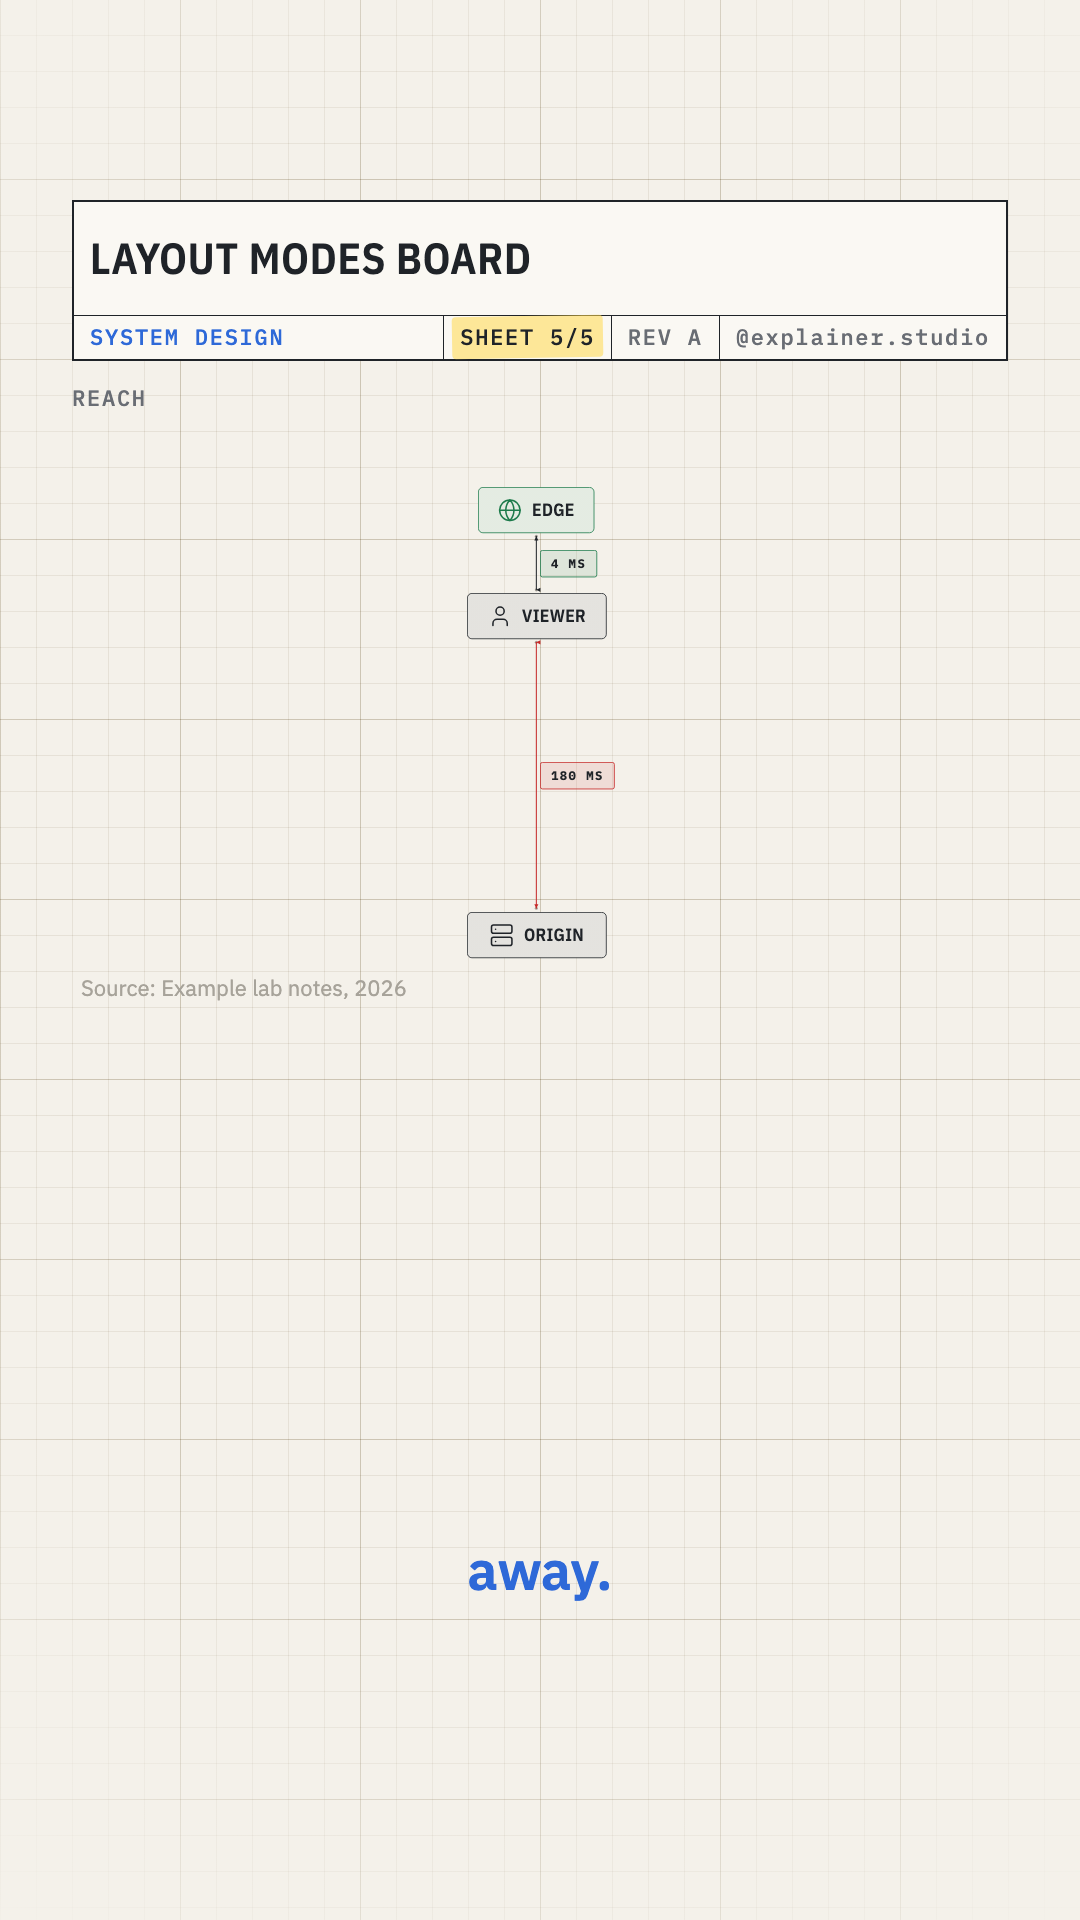
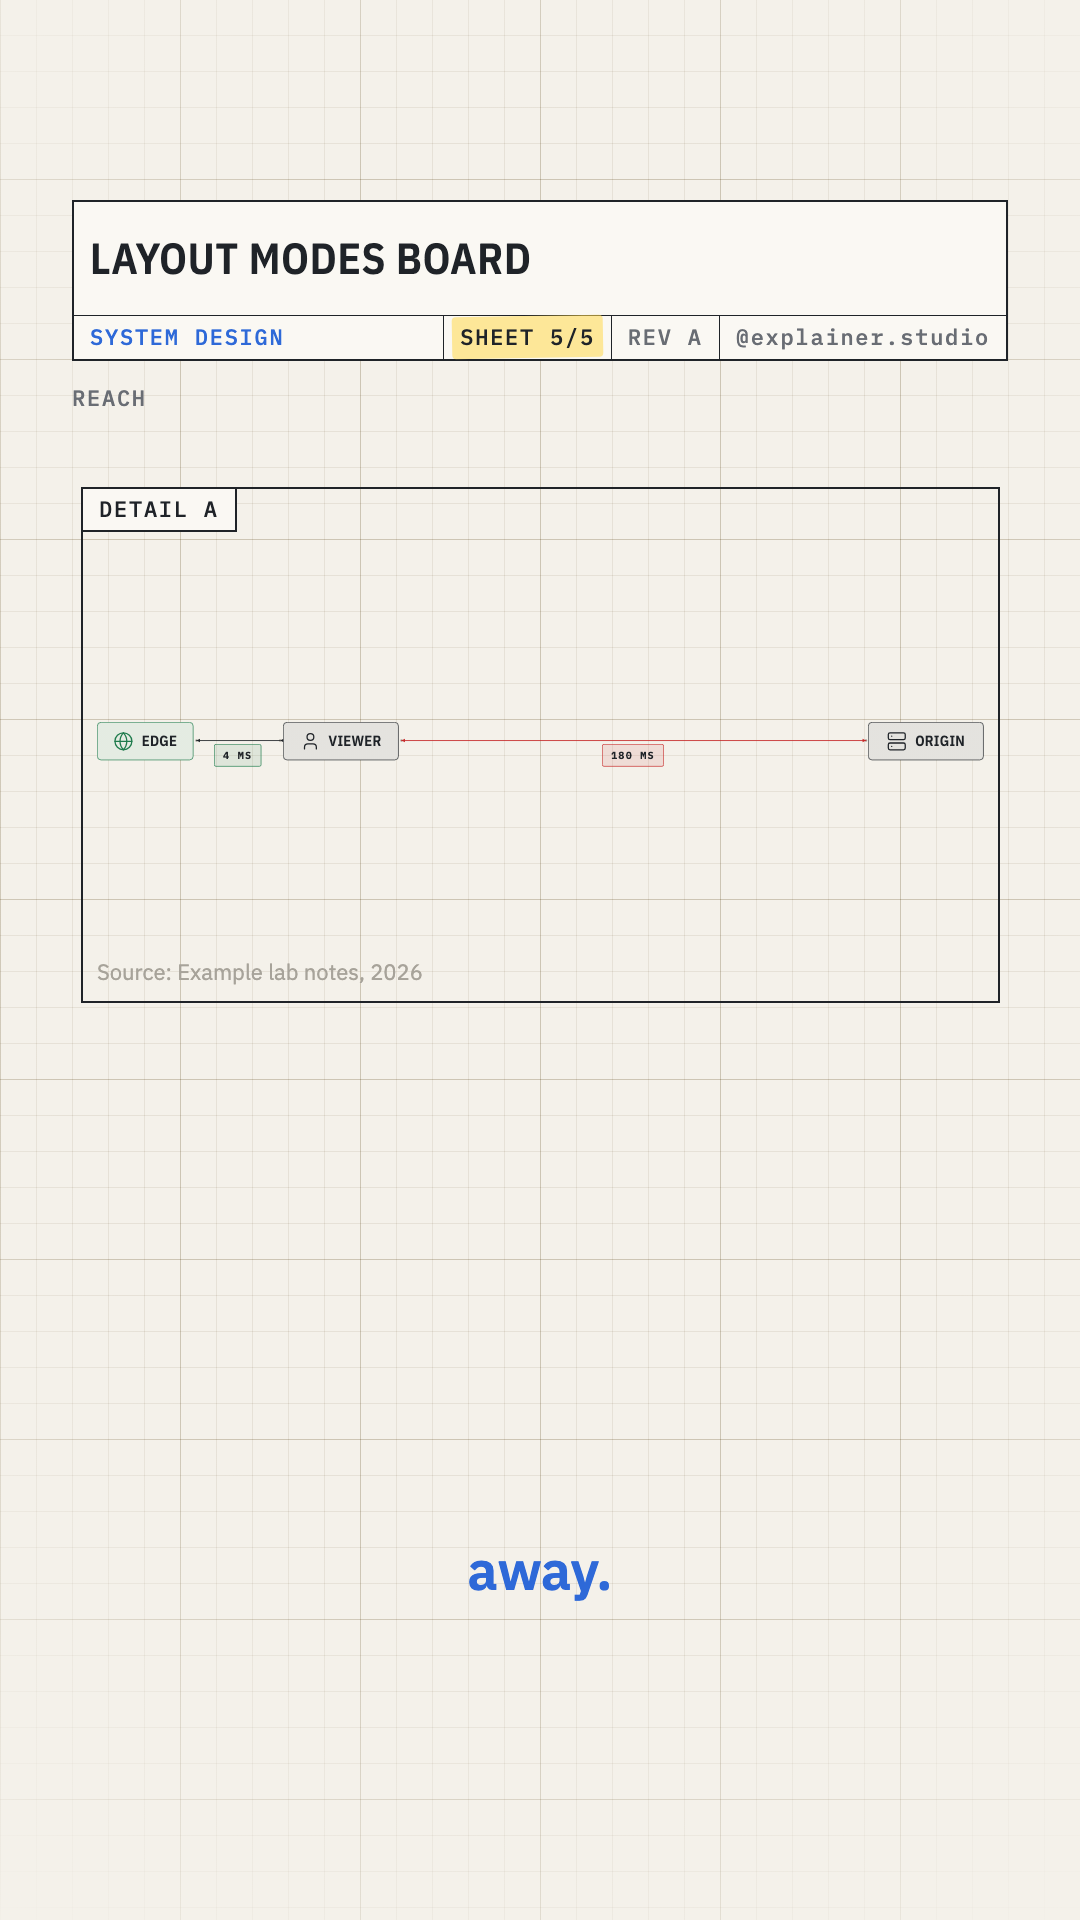
card format: ruled viewport frame
The card format's diagram window is drawn as a ruled viewport on the drawing
sheet (HUD layer, theme tokens only): a stroke.thin ink border and a label cell
in its top-left corner, ruled like the title block's cells. The label is the
current chapter's name while the chapter header is on, else "DETAIL A"
(viewportLabel), and fades in when the chapter changes.

formatAreas now returns the card window as `viewport`; the board sits inside it,
space.sm from the border and below the label cell (viewportBoard), so no element
is ever drawn under the label. Re-rendered docs/layouts/*-card.png and the
rate-limiter card compare frames.

diff --git a/packages/renderer/src/hud/TitleBlockHud.tsx b/packages/renderer/src/hud/TitleBlockHud.tsx
@@ -3,6 +3,7 @@ import { AbsoluteFill, useCurrentFrame, useVideoConfig } from 'remotion';
 import { rectCss } from '../layers/rect-css.ts';
 import { formatAreas } from '../layout/format.ts';
 import { textCss, type Theme } from '../theme/index.ts';
+import { CardViewport } from './CardViewport.tsx';
 import { ChapterHeader } from './ChapterHeader.tsx';
 import { DimensionMetric } from './DimensionMetric.tsx';
 import { Headline } from './Headline.tsx';
@@ -10,7 +11,7 @@ import { StoryClock } from './HeroMetric.tsx';
 import type { ChapterSpan } from './hud-state.ts';
 import { enterProgress, enterStyle } from './motion.ts';
 import { ellipsis } from './styles.ts';
-import { titleBlockLayout, type TitleBlockVariant } from './title-block.ts';
+import { titleBlockLayout, viewportLabel, type TitleBlockVariant } from './title-block.ts';
 import { TitleBlock } from './TitleBlock.tsx';
 import { useHudModel, type HudProps } from './use-hud-model.ts';
 
@@ -20,23 +21,33 @@ type Props = HudProps & { variant: TitleBlockVariant };
  * `hud.style: 'title-block'`. The strip variant draws the title block (topic, SHEET for the step
  * tracker, REV, handle), then the chapter header or step name beside the hero metric dimension,
  * then the story clock when `spec.hud` has it on. The header variant (card format) draws the title
- * block with the title in display type, and the same rows under it; its headline goes under the
- * diagram window (`formatAreas`).
+ * block with the title in display type, the same rows under it, and the diagram window as a ruled
+ * viewport (`CardViewport`); its headline goes under the window (`formatAreas`).
  */
 export function TitleBlockHud({ variant, ...props }: Props) {
   const { theme, spec, seriesLabel, accent, channelHandle } = props;
   const { frame, parts, chapters, chapter, cue, metric, clock, points, start, pinnedFrom } =
     useHudModel(props);
   const layout = useMemo(() => titleBlockLayout(theme, variant), [theme, variant]);
-  const headlineBand = useMemo(
-    () => formatAreas(theme, spec.meta.format).headlineBand,
-    [theme, spec.meta.format],
-  );
+  const areas = useMemo(() => formatAreas(theme, spec.meta.format), [theme, spec.meta.format]);
+  const headlineBand = areas.headlineBand;
   const row = { display: 'flex', alignItems: 'center', gap: theme.space.md } as const;
   const showSheet = parts.stepTracker && chapter !== undefined;
 
   return (
     <AbsoluteFill>
+      {variant === 'header' && areas.viewport ? (
+        <CardViewport
+          theme={theme}
+          rect={areas.viewport}
+          label={viewportLabel({
+            chapterHeader: parts.chapterHeader,
+            chapterTitle: chapter?.title,
+          })}
+          labelKey={parts.chapterHeader && chapter ? chapter.chapterId : 'detail'}
+          labelFrom={parts.chapterHeader && chapter ? chapter.from : start}
+        />
+      ) : null}
       {parts.topBar || variant === 'header' ? (
         <TitleBlock
           theme={theme}

diff --git a/packages/renderer/src/layout/spec-layout.test.ts b/packages/renderer/src/layout/spec-layout.test.ts
@@ -6,7 +6,8 @@ import { withRegistryChecks } from '../catalog/validate.ts';
 import { exclusionZones, getTheme, listThemes, safeAreas } from '../theme/index.ts';
 import { MAX_ZOOM } from './camera.ts';
 import { applyRect } from './fit.ts';
-import { CARD_ASPECT, formatAreas } from './format.ts';
+import { cellHeight } from '../hud/title-block.ts';
+import { CARD_ASPECT, formatAreas, viewportBoard } from './format.ts';
 import { bottom, inside, overlaps } from './rect.ts';
 import { specLayout, specLayoutWarnings } from './spec-layout.ts';
 import { expectValidBoard, theme } from './test-layout.ts';
@@ -14,24 +15,39 @@ import { expectValidBoard, theme } from './test-layout.ts';
 const FORMATS: VideoFormat[] = ['full', 'card'];
 
 describe('formatAreas', () => {
+  it.each(listThemes().map((t) => t.id))(
+    '%s: card keeps the board inside the viewport, below its label cell',
+    (id) => {
+      const t = getTheme(id);
+      const { board, viewport } = formatAreas(t, 'card');
+      if (!viewport) throw new Error('card has a viewport');
+      expect(inside(viewport, board)).toBe(true);
+      expect(board.y).toBeGreaterThanOrEqual(viewport.y + cellHeight(t));
+      expect(board).toEqual(viewportBoard(t, viewport));
+    },
+  );
+
   it.each(listThemes().map((t) => t.id))('%s: full uses the safe areas', (id) => {
     const t = getTheme(id);
     const areas = formatAreas(t, 'full');
     expect(areas.board).toEqual(safeAreas(t).stage);
     expect(areas.boardWithHeadline).toEqual(safeAreas(t).stageWithHeadline);
     expect(areas.header).toBeNull();
+    expect(areas.viewport).toBeNull();
   });
 
   it.each(listThemes().map((t) => t.id))(
     '%s: card puts a 16:9 window clear of every zone between header and bands',
     (id) => {
       const t = getTheme(id);
-      const { board, header, headlineBand, subtitleBand, avoidZones } = formatAreas(t, 'card');
-      expect(Math.abs(board.width / board.height - CARD_ASPECT)).toBeLessThan(0.01);
-      for (const zone of exclusionZones(t)) expect(overlaps(board, zone)).toBe(false);
+      const areas = formatAreas(t, 'card');
+      const { header, headlineBand, subtitleBand, avoidZones, viewport } = areas;
+      if (!viewport) throw new Error('card has a viewport');
+      expect(Math.abs(viewport.width / viewport.height - CARD_ASPECT)).toBeLessThan(0.01);
+      for (const zone of exclusionZones(t)) expect(overlaps(viewport, zone)).toBe(false);
       expect(avoidZones).toEqual([]);
-      expect(header && bottom(header)).toBeLessThanOrEqual(board.y);
-      expect(headlineBand.y).toBeGreaterThanOrEqual(bottom(board));
+      expect(header && bottom(header)).toBeLessThanOrEqual(viewport.y);
+      expect(headlineBand.y).toBeGreaterThanOrEqual(bottom(viewport));
       expect(subtitleBand.y).toBeGreaterThanOrEqual(bottom(headlineBand));
       for (const band of [headlineBand, subtitleBand]) {
         for (const zone of exclusionZones(t)) expect(overlaps(band, zone)).toBe(false);

diff --git a/packages/renderer/src/layout/format.ts b/packages/renderer/src/layout/format.ts
@@ -1,5 +1,5 @@
 import type { VideoFormat } from '@explainer-studio/shared';
-import { titleBlockLayout } from '../hud/title-block.ts';
+import { cellHeight, titleBlockLayout } from '../hud/title-block.ts';
 import {
   clearSymmetric,
   clipZones,
@@ -20,7 +20,8 @@ import { bottom } from './rect.ts';
  *   card   header region: title block (title, series, SHEET, REV, handle)
  *                         chapter header ··························· hero metric
  *                                                                     story clock
- *          diagram window (16:9, the board; clear of every exclusion zone)
+ *          diagram window (16:9, clear of every exclusion zone): a ruled viewport with a label
+ *          cell top-left; the board sits inside it, below the label
  *          headline band
  *          subtitle band
  *
@@ -41,6 +42,11 @@ export type FormatAreas = {
   avoidZones: Zone[];
   /** Card only: the persistent header region the HUD draws (title block and its rows). */
   header: Rect | null;
+  /**
+   * Card only: the diagram window, drawn by the HUD as a ruled viewport with a label cell in its
+   * top-left corner. The board sits inside it, below the label cell (`viewportBoard`).
+   */
+  viewport: Rect | null;
 };
 
 /** Diagram window aspect in the card format. */
@@ -60,6 +66,7 @@ function fullAreas(theme: Theme): FormatAreas {
     subtitleBand: areas.subtitleBand,
     avoidZones: areas.avoidZones,
     header: null,
+    viewport: null,
   };
 }
 
@@ -89,12 +96,28 @@ function cardAreas(theme: Theme): FormatAreas {
   }
   return {
     format: 'card',
-    board: window,
-    boardWithHeadline: window,
+    board: viewportBoard(theme, window),
+    boardWithHeadline: viewportBoard(theme, window),
     headlineBand,
     subtitleBand,
     avoidZones: clipZones(zones, window),
     header,
+    viewport: window,
+  };
+}
+
+/**
+ * Where the board goes inside the card's viewport: clear of its border by `space.sm`, and below
+ * the label cell in its top-left corner, so no element is ever drawn under the label.
+ */
+export function viewportBoard(theme: Theme, viewport: Rect): Rect {
+  const pad = theme.space.sm;
+  const top = cellHeight(theme) + pad;
+  return {
+    x: viewport.x + pad,
+    y: viewport.y + top,
+    width: viewport.width - 2 * pad,
+    height: viewport.height - top - pad,
   };
 }
 

diff --git a/packages/renderer/src/hud/CardViewport.tsx b/packages/renderer/src/hud/CardViewport.tsx
@@ -1,0 +1,61 @@
+import { useCurrentFrame, useVideoConfig } from 'remotion';
+import { rectCss } from '../layers/rect-css.ts';
+import { textCss, type Rect, type Theme } from '../theme/index.ts';
+import { enterProgress, enterStyle } from './motion.ts';
+import { ellipsis } from './styles.ts';
+import { cellHeight } from './title-block.ts';
+
+type Props = {
+  theme: Theme;
+  /** The diagram window (`formatAreas(theme, 'card').viewport`). */
+  rect: Rect;
+  label: string;
+  /** Key of what the label names (the chapter id), so a new label fades in. */
+  labelKey: string;
+  /** Frame the current label appeared at. */
+  labelFrom: number;
+};
+
+/**
+ * The card format's diagram window as a ruled viewport on the drawing sheet: a thin ink border
+ * and a label cell in its top-left corner, ruled like the title block's cells. HUD layer, theme
+ * tokens only. The board is laid out inside it, below the cell (`viewportBoard`).
+ */
+export function CardViewport({ theme, rect, label, labelKey, labelFrom }: Props) {
+  const frame = useCurrentFrame();
+  const { fps } = useVideoConfig();
+  const rule = `${theme.stroke.thin}px solid ${theme.colours.ink.primary}`;
+  const progress = enterProgress(frame, labelFrom, fps);
+  return (
+    <div style={{ ...rectCss(rect), boxSizing: 'border-box', border: rule }}>
+      <div
+        style={{
+          position: 'absolute',
+          left: 0,
+          top: 0,
+          height: cellHeight(theme),
+          maxWidth: rect.width / 2,
+          boxSizing: 'border-box',
+          display: 'flex',
+          alignItems: 'center',
+          padding: `0 ${theme.space.sm}px`,
+          borderRight: rule,
+          borderBottom: rule,
+          background: theme.colours.surface,
+        }}
+      >
+        <div
+          key={labelKey}
+          style={{
+            ...textCss(theme, 'hud'),
+            ...ellipsis,
+            ...enterStyle(progress, theme.space.xs),
+            color: theme.colours.ink.primary,
+          }}
+        >
+          {label}
+        </div>
+      </div>
+    </div>
+  );
+}

diff --git a/packages/renderer/src/hud/title-block.test.ts b/packages/renderer/src/hud/title-block.test.ts
@@ -11,6 +11,8 @@ import {
   titleBlockCells,
   titleBlockLayout,
   topCellHeight,
+  VIEWPORT_DEFAULT_LABEL,
+  viewportLabel,
 } from './title-block.ts';
 
 const cases = listThemes().flatMap((theme) =>
@@ -73,6 +75,18 @@ describe('titleBlockLayout variants', () => {
       /strip title block needs \d+px but the HUD band is 120px/,
     );
     expect(() => titleBlockLayout(tiny, 'header')).not.toThrow();
+  });
+});
+
+describe('viewportLabel', () => {
+  it('names the chapter while the chapter header is on, else DETAIL A', () => {
+    expect(viewportLabel({ chapterHeader: true, chapterTitle: 'Token bucket' })).toBe(
+      'Token bucket',
+    );
+    expect(viewportLabel({ chapterHeader: false, chapterTitle: 'Token bucket' })).toBe(
+      VIEWPORT_DEFAULT_LABEL,
+    );
+    expect(viewportLabel({ chapterHeader: true })).toBe('DETAIL A');
   });
 });
 

diff --git a/packages/renderer/src/hud/title-block.ts b/packages/renderer/src/hud/title-block.ts
@@ -121,3 +121,14 @@ export function titleBlockCells(input: TitleBlockCellsInput): TitleBlockCellId[]
 export function sheetLabel(index: number, count: number): string {
   return `SHEET ${index + 1}/${count}`;
 }
+
+/** The card viewport's label when the chapter header is off (a drawing's detail callout). */
+export const VIEWPORT_DEFAULT_LABEL = 'DETAIL A';
+
+/**
+ * The card viewport's label: the current chapter's name while the chapter header is on, else
+ * `VIEWPORT_DEFAULT_LABEL`.
+ */
+export function viewportLabel(input: { chapterHeader: boolean; chapterTitle?: string }): string {
+  return input.chapterHeader && input.chapterTitle ? input.chapterTitle : VIEWPORT_DEFAULT_LABEL;
+}

diff --git a/CLAUDE.md b/CLAUDE.md
@@ -325,7 +325,9 @@ to `docs/patterns/<id>.png` (a panel per narration anchor, elements in one row p
   story clock. Its slots come from `titleBlockLayout(theme, variant)`. `TitleBlock` has a
   `header` variant (the title in display type over the cells): with `meta.format: "card"`, `Hud`
   draws it in every theme, with the same chapter / metric and clock rows, in the card header
-  region (`formatAreas`); the headline goes under the window. `still:compare` renders it as the
+  region (`formatAreas`); the headline goes under the window. `CardViewport` draws the window as
+  a ruled viewport (thin ink border, a label cell top-left: the chapter name while the chapter
+  header is on, else `DETAIL A`); the board sits inside it, below the cell (`viewportBoard`). `still:compare` renders it as the
   `rate-limiter-card` target.
 - **Scene layer** (`src/scene`): `beatWorld` (pure) collects a beat's elements, expanded
   patterns and everything inherited through `continuesPrevious`, each with the events that act on

diff --git a/docs/TODO.md b/docs/TODO.md
@@ -142,9 +142,6 @@ Follow-ups noted during tasks instead of done. Reference prompt IDs from the des
       the card's headline band (drafting-paper: y 1183, 720 px wide), but `DevSubtitles` (not to
       be extended) still draws at the full format's band. The real subtitle layer must read the
       band from `formatAreas(theme, spec.meta.format)`.
-- [ ] **Card format — Window frame.** The card's diagram window is not outlined, so the card
-      reads as a board under a header. Draw a ruled frame (HUD, from `formatAreas`) if it should
-      read as a card.
 - [ ] **Runs — Episode number in the title block.** The title block's REV cell is the constant
       `REVISION_LABEL` ("REV A"). Replace it with the episode number ("NO. 12") once runs
       carry one.
